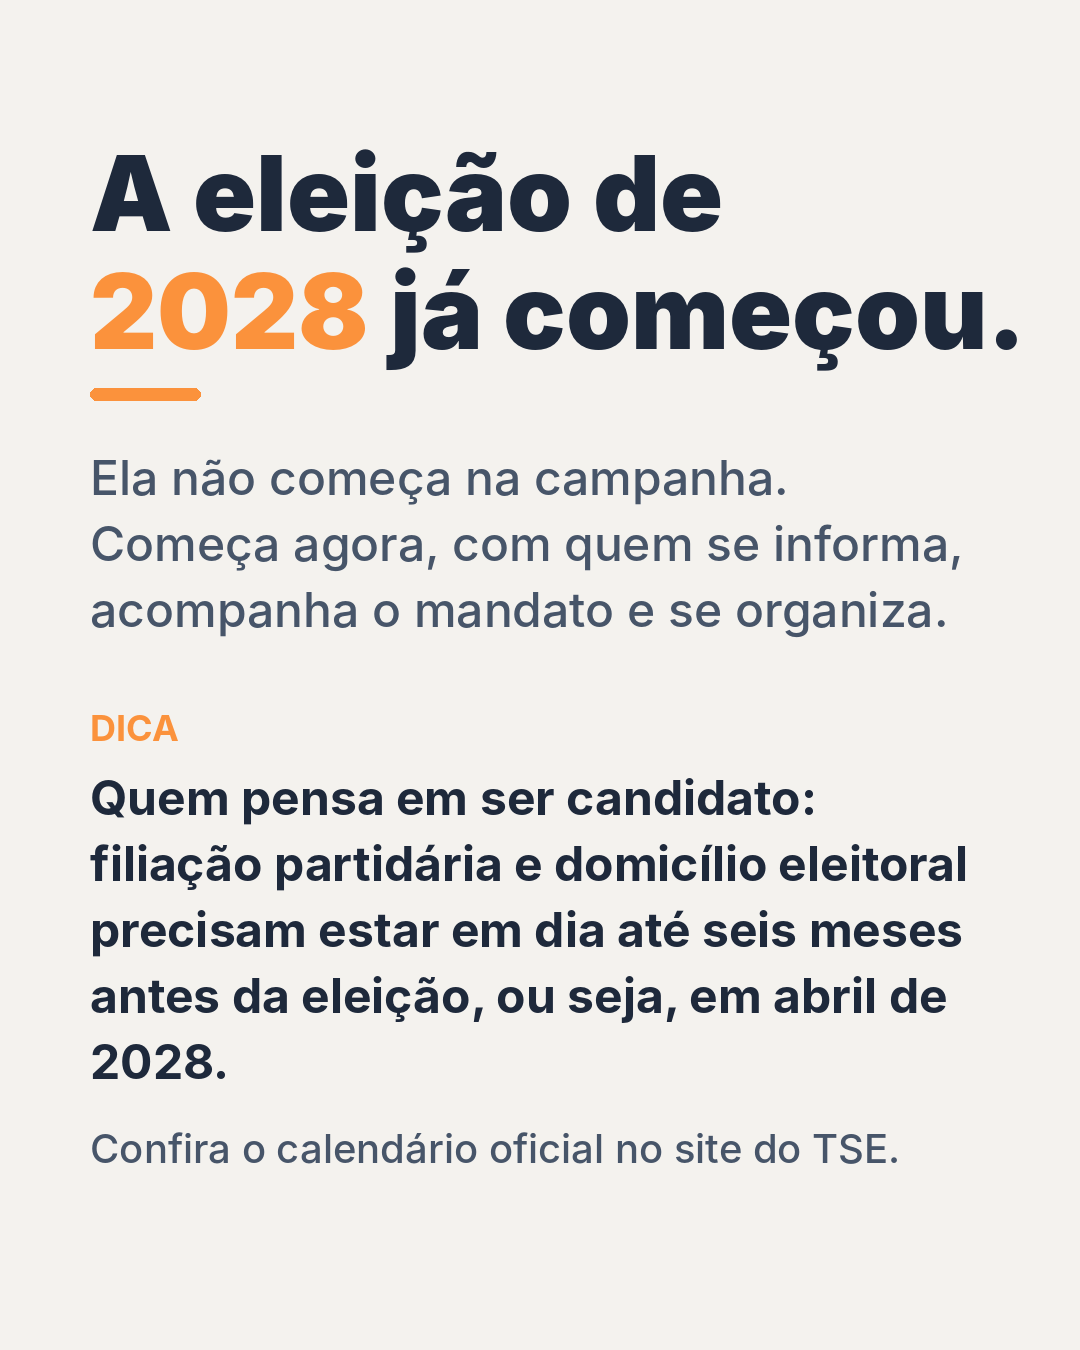
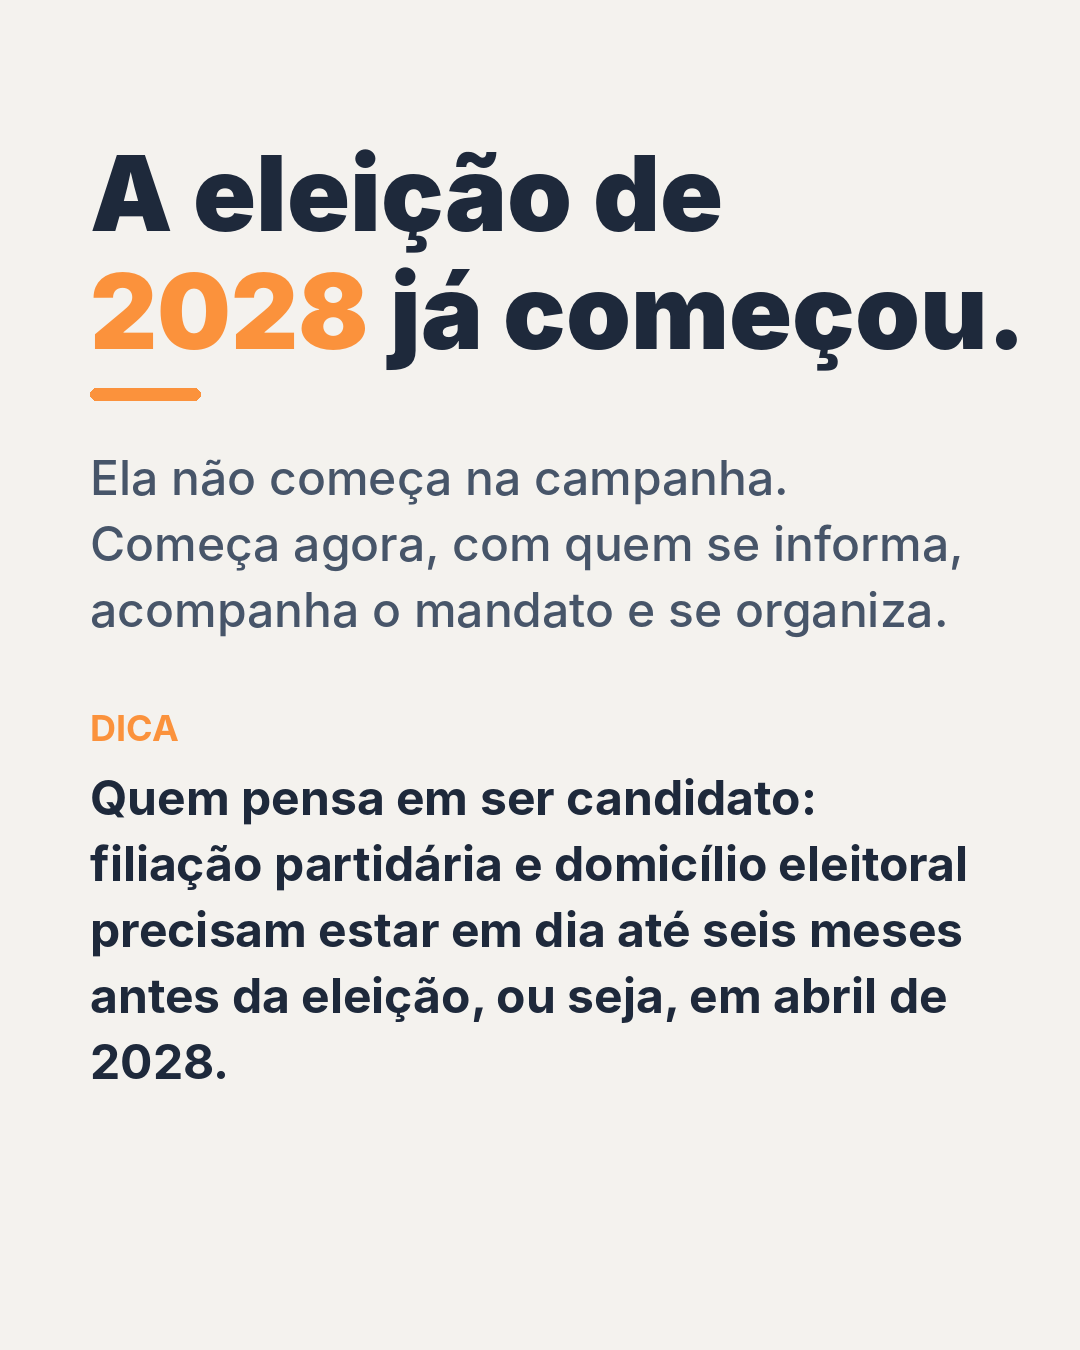
Remove calendar reference from the 2028 text post
The calendar will be published separately.

Claude-Session: https://claude.ai/code/session_011vZcZhnoq7b8hitMrivymA

Changed region(s): [[0.0917, 0.84, 0.825, 0.8711]]

diff --git a/docs/posts-fixados/LEGENDAS.md b/docs/posts-fixados/LEGENDAS.md
@@ -100,9 +100,7 @@ Legenda:
 ```
 A eleição de 2028 já começou. Não nas ruas, mas em quem se informa, acompanha o mandato e se organiza com antecedência. 🗳
 
-A dica de hoje é pra quem pensa em ser candidato: filiação partidária e domicílio eleitoral precisam estar em dia até seis meses antes da eleição.
-
-Confira as datas exatas no calendário oficial do TSE.
+A dica de hoje é pra quem pensa em ser candidato: filiação partidária e domicílio eleitoral precisam estar em dia até seis meses antes da eleição, ou seja, em abril de 2028.
 
 Salva pra não esquecer e manda pra quem está pensando em entrar na política.
 
